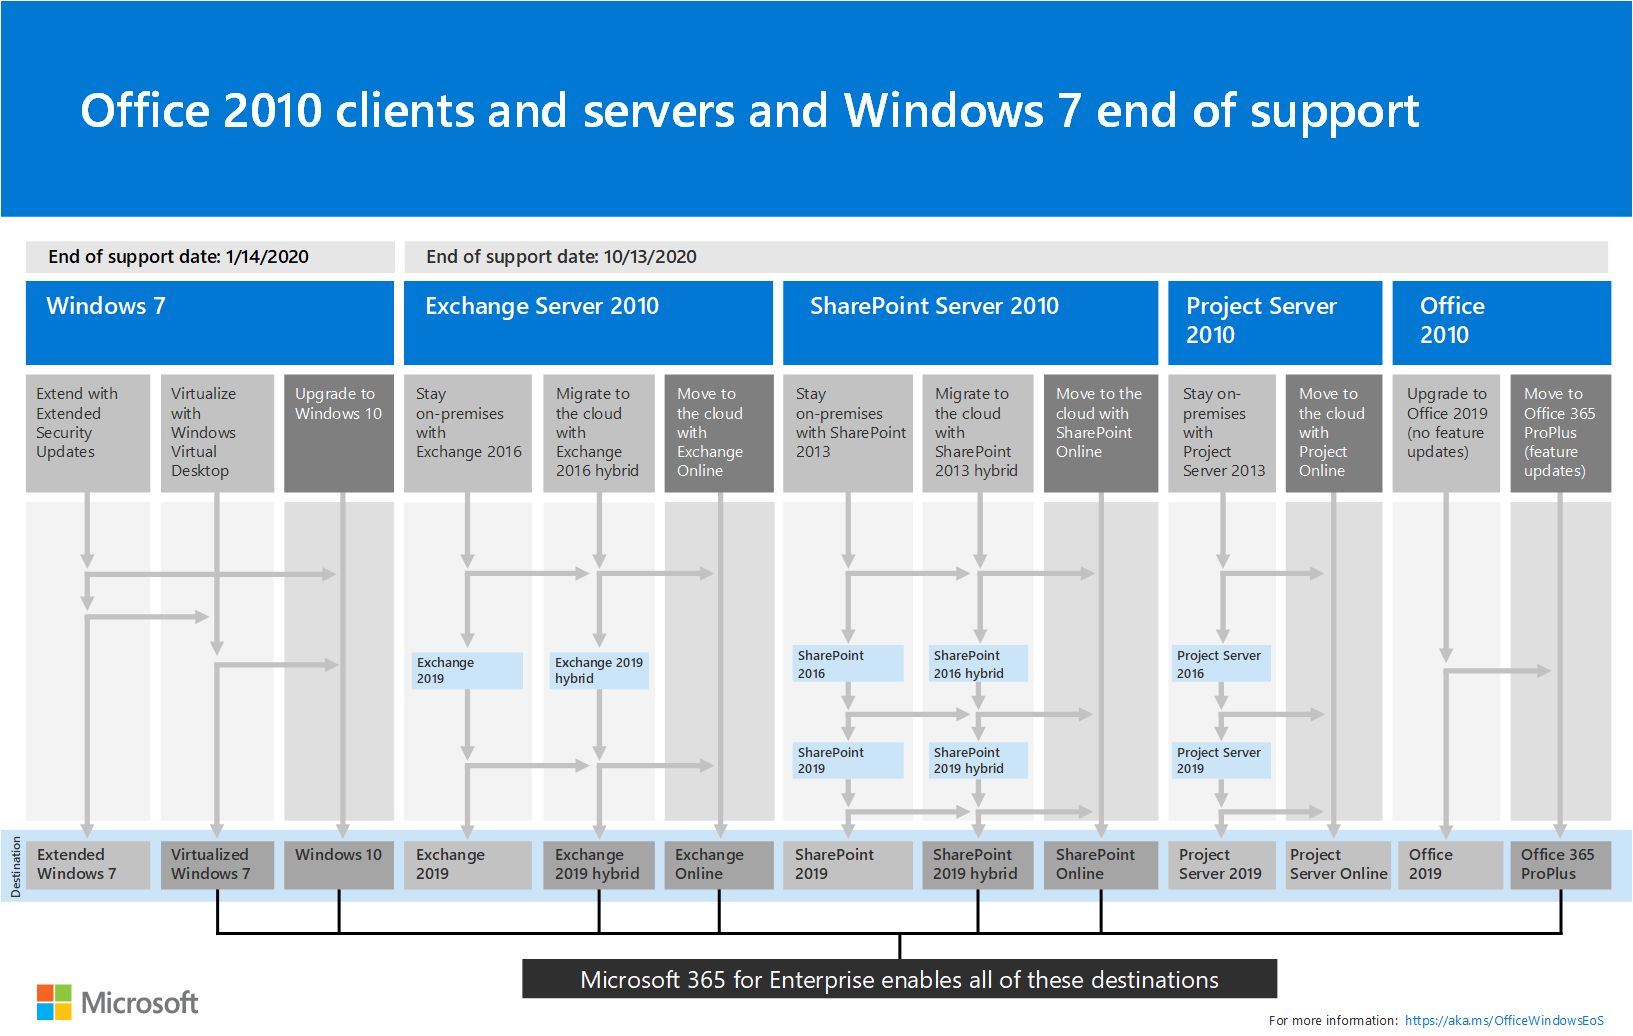
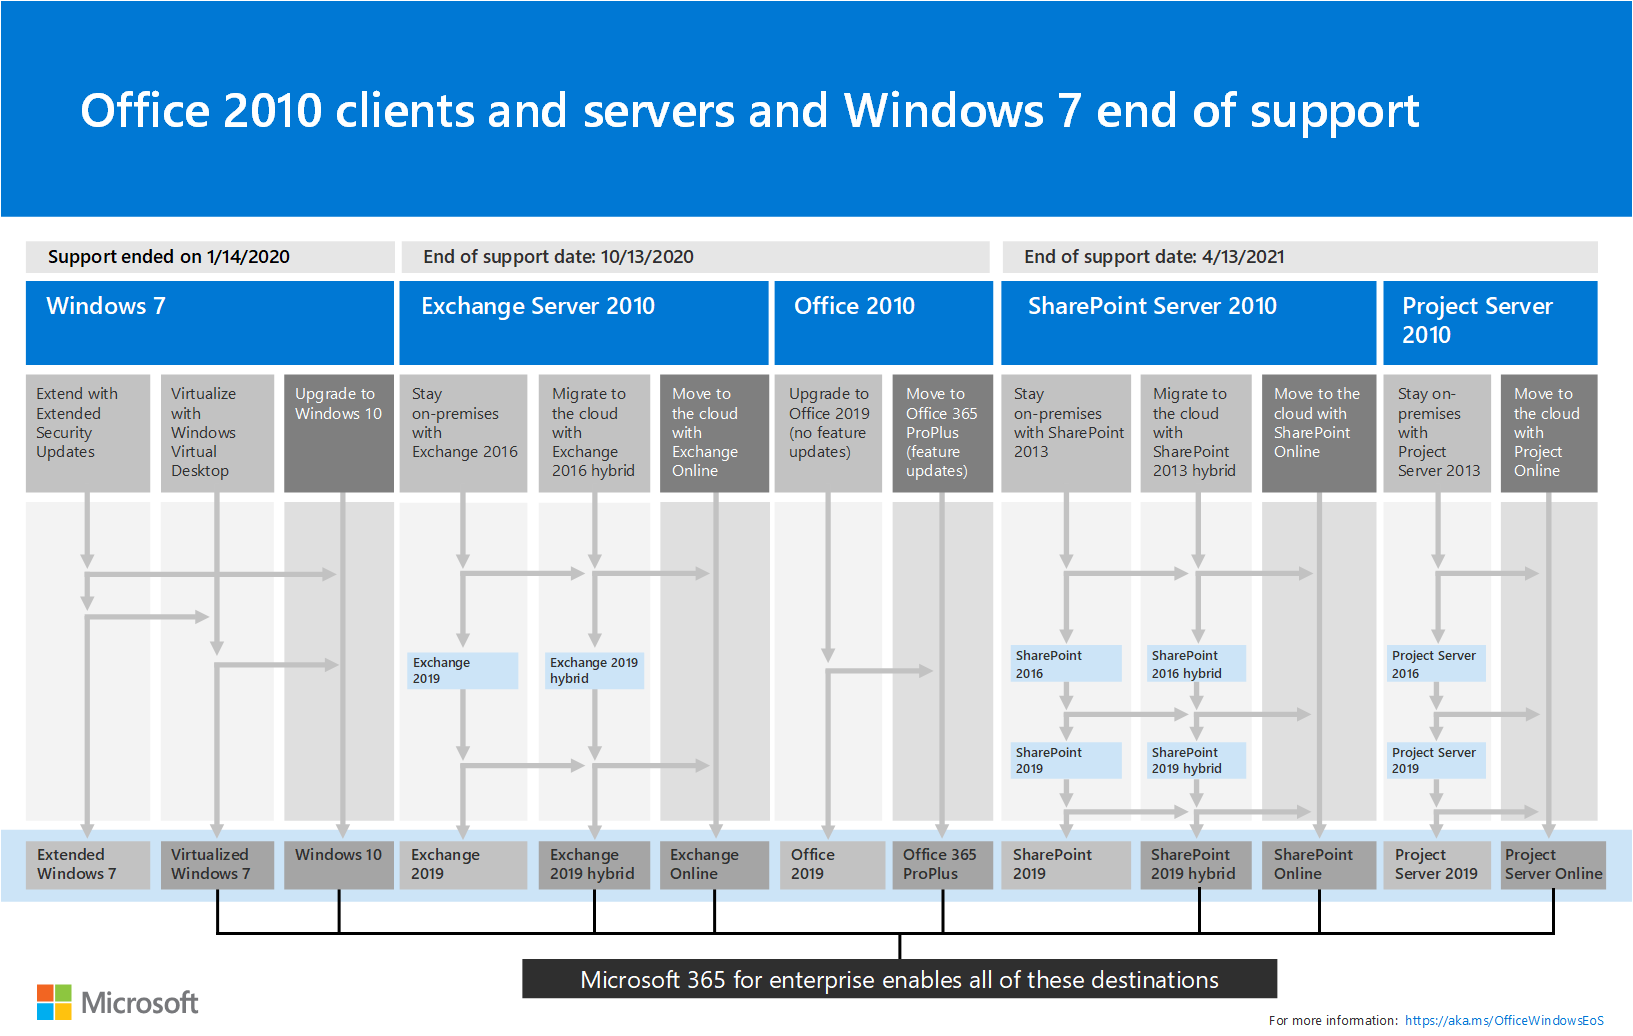
commit translated contents

diff --git a/microsoft-365/admin/security-and-compliance/set-up-multi-factor-authentication.md b/microsoft-365/admin/security-and-compliance/set-up-multi-factor-authentication.md
@@ -22,12 +22,12 @@ search.appverid:
 ms.assetid: 8f0454b2-f51a-4d9c-bcde-2c48e41621c6
 description: Lär dig hur du använder säkerhetsstandarder för att konfigurera multifaktorautentisering för Office 365-användare.
 monikerRange: o365-worldwide
-ms.openlocfilehash: 5f468f040ca88ab4ab2bc198d0d7550bf2e7f4af
-ms.sourcegitcommit: 8a88b7526e6a3a907f33a8567e0d25b74fe60d80
+ms.openlocfilehash: 7e48f72f2fd8cfc5042bd15f994cc98bfa5fca8c
+ms.sourcegitcommit: dbbdeca5a6cd048e1bde9e820a8b8a0d6022c7a2
 ms.translationtype: MT
 ms.contentlocale: sv-SE
-ms.lasthandoff: 04/09/2020
-ms.locfileid: "43204028"
+ms.lasthandoff: 04/14/2020
+ms.locfileid: "43503977"
 ---
 # <a name="set-up-multi-factor-authentication"></a>Konfigurera multifaktorautentisering
   
@@ -37,6 +37,7 @@ ms.locfileid: "43204028"
 Alla nya Office 365 för företag- och Microsoft 365 Business-prenumerationer har automatiskt säkerhetsstandarder aktiverade. Det innebär att alla användare måste konfigurera MFA och installera Microsoft Authenticator-appen på sin mobila enhet. Mer information finns i [Konfigurera tvåstegsverifiering för Office 365](https://support.office.com/article/ace1d096-61e5-449b-a875-58eb3d74de14).  
 
 Följande nio administratörsroller måste utföra ytterligare autentisering varje gång de loggar in:
+
 - Global administratör
 - SharePoint-administratör
 - Exchange-administratör
@@ -47,7 +48,7 @@ Följande nio administratörsroller måste utföra ytterligare autentisering var
 - Användaradministratör
 - Administratör av autentisering
 
-Alla andra användare kommer att ombes utföra ytterligare autentisering när det behövs. Mer information finns i [Vad är säkerhetsstandarder?](https://docs.microsoft.com/azure/active-directory/fundamentals/concept-fundamentals-security-defaults)
+Alla andra användare kommer att ombes utföra ytterligare autentisering när det behövs. Mer information finns i [Vad är standardinställningar för säkerhet?](https://docs.microsoft.com/azure/active-directory/fundamentals/concept-fundamentals-security-defaults)
 
 > [!NOTE]
 > Du måste vara en global Office 365-administratör för att kunna konfigurera eller ändra MFA. <br><br>
@@ -61,8 +62,7 @@ Om du tidigare har konfigurerat MFA med riktlinjer [måste du inaktivera och akt
 ## <a name="manage-security-defaults"></a>Hantera säkerhetsstandarder
 
 1. Logga in på [administrationscentret](https://go.microsoft.com/fwlink/p/?linkid=834822) som global administratör.
-2. Gå till [Azure Active Directory egenskaper](https://portal.azure.com/#blade/Microsoft_AAD_IAM/ActiveDirectoryMenuBlade/Properties).
-
+2. Gå till [egenskaper för Azure Active Directory](https://portal.azure.com/#blade/Microsoft_AAD_IAM/ActiveDirectoryMenuBlade/Properties).
 3. Längst ner på sidan väljer du **Hantera säkerhetsstandarder**.
 4. Välj **Ja** om du vill aktivera standardinställningar för säkerhet eller **Nej** om du vill inaktivera standardvärden för säkerhet och välj sedan **Spara**.
 
@@ -74,9 +74,9 @@ Om du tidigare har konfigurerat MFA med riktlinjer [måste du inaktivera och akt
 
 3. Om **säkerheten | Komma** igång-sidan, välj **Villkorlig åtkomst**. 
 
-4. På sidan **Villkorad åtkomst till Azure portal – riktlinjer** väljer du varje baslinje-policy som är **På** och ställ dem på **Av**.
+4. På sidan **Villkorlig åtkomst - Principer** väljer du varje originalprincip som är **På**och ställer in dem på **Av**.
 5. Gå till sidan [Azure Active Directory egenskaper](https://portal.azure.com/#blade/Microsoft_AAD_IAM/ActiveDirectoryMenuBlade/Properties).
-6. Gå till slutet av sidan och välj **Hantera säkerhetsstandarder**och i fönstret **Aktivera säkerhetsstandarder** och ställer**Aktiverar säkerhetsstandarder** till **Ja**. 
+6. Längst ned på sidan väljer du **Hantera standardvärden för säkerhet**och i fönstret Aktivera säkerhet som **standard** anger du Växla till **Ja**för **säkerhet** och väljer sedan **Spara**. 
 
 ## <a name="enable-modern-authentication-for-your-organization"></a>Aktivera modern autentisering för din organisation
 
@@ -84,12 +84,13 @@ Alla Office 2016-klientprogrammen har stöd för MFA genom användning av ADAL (
 
 1. Om du vill aktivera modern autentisering väljer du **Inställningar** \> **Inställningar** i [administrationscentrat](https://go.microsoft.com/fwlink/p/?linkid=834822) och **Modern autentisering** i listan på fliken **Tjänster**.
 
-2. Markera rutan **Aktivera modern autentisering** i panelen **Modern autentisering**. 
+2. Markera rutan **Aktivera modern autentisering (rekommenderas)** på panelen **Modern autentisering** och välj sedan **Spara ändringar**. 
 
     ![Panelen Modern autentisering med kryssrutan Aktivera markerad.](../../media/enablemodernauth.png)
     
 > [!IMPORTANT]
 > Från och med augusti 2017 är modern autentisering aktiverat som standard för alla nya Office 365-klientorganisationer som inkluderar Skype för företag – Online och Exchange Online. Om du vill kontrollera status för modern autentisering i Skype för företag – Online kan du använda Skype för företag – Online PowerShell med globala administratörsuppgifter. Kör Get-CsOAuthConfiguration när du vill kontrollera utdata för -ClientADALAuthOverride. Om -ClientADALAuthOverride är Allowed är modern autentisering aktiverat.
+
 Om du vill kontrollera MA-status för Exchange Online går du till [Aktivera modern autentisering i Exchange Online](https://docs.microsoft.com/exchange/clients-and-mobile-in-exchange-online/enable-or-disable-modern-authentication-in-exchange-online).
 
 ## <a name="related-articles"></a>Relaterade artiklar

diff --git a/microsoft-365/enterprise/microsoft-365-overview.md b/microsoft-365/enterprise/microsoft-365-overview.md
@@ -13,12 +13,12 @@ localization_priority: Normal
 ms.collection: M365-subscription-management
 ms.custom: it-pro
 description: Innehåller en introduktion till komponenter, planer och distributionssökvägar för Microsoft 365 för företag.
-ms.openlocfilehash: 043953ddfd38a9ef5119546ec5672dd46e8acb53
-ms.sourcegitcommit: 053d42480d8aa3792ecb0027ddd53d383a029474
+ms.openlocfilehash: 6b8d2aa7fd8455acde1d49a6ed7f7c93c5235652
+ms.sourcegitcommit: dbbdeca5a6cd048e1bde9e820a8b8a0d6022c7a2
 ms.translationtype: MT
 ms.contentlocale: sv-SE
-ms.lasthandoff: 04/07/2020
-ms.locfileid: "43175196"
+ms.lasthandoff: 04/14/2020
+ms.locfileid: "43504097"
 ---
 # <a name="microsoft-365-for-enterprise-overview"></a>Översikt över Microsoft 365 för företag
 
@@ -84,15 +84,14 @@ Du kan också [ladda ner denna affisch](https://github.com/MicrosoftDocs/microso
 
 ## <a name="avoid-end-of-support-for-windows-7-and-office-2010-clients-and-servers"></a>Undvik att supporten för Windows 7 och Office 2010 ska sluta
 
-Följande produkter upphörde med supporten **den 14 januari 2020:**
-
-- [Windows 7](https://aka.ms/win7upgrade)
+[Windows 7](https://aka.ms/win7upgrade) nådde slutet av **supporten den 14 januari 2020**.
 
 Följande produkter kommer att nå slutet av supporten **den 13 oktober 2020:**
 
 - [Office 2010](https://docs.microsoft.com/DeployOffice/office-2010-end-support-roadmap)
 - [Exchange Server 2010](https://docs.microsoft.com/office365/enterprise/exchange-2010-end-of-support)
-- [SharePoint Server 2010](https://docs.microsoft.com/office365/enterprise/upgrade-from-sharepoint-2010)
+
+[SharePoint Server 2010](https://docs.microsoft.com/office365/enterprise/upgrade-from-sharepoint-2010) kommer att nå slutet av supporten **den 13 april 2021**.
 
 En visuell sammanfattning av alternativen att uppgradera, migrera och flytta till molnet för dessa produkter finns på [affischen supportens upphörande](../media/migration-microsoft-365-enterprise-workload/Office2010Windows7EndOfSupport.pdf).
 
@@ -150,6 +149,6 @@ Mer distributionsinformation finns i så här:
 
 Om du gör distributionen själv startar du [microsoft 365 för företagsdistributionsresa](deploy-microsoft-365-enterprise.md).
 
-## <a name="see-also"></a>Se även
+## <a name="see-also"></a>Snabbreferens
 
 [Microsoft 365 för företagets produktsida](https://www.microsoft.com/microsoft-365/enterprise)

diff --git a/microsoft-365/security/mtp/preview.md b/microsoft-365/security/mtp/preview.md
@@ -19,12 +19,12 @@ ms.topic: conceptual
 search.appverid:
 - MOE150
 - MET150
-ms.openlocfilehash: f04d2e587a55a680a65425b34a88896466e09be3
-ms.sourcegitcommit: 9ca28ae8f7804eb488cf76ca4b09fe88787e0a49
+ms.openlocfilehash: c4facaac82ff8486c0c3a846e4f577c7888a3161
+ms.sourcegitcommit: dbbdeca5a6cd048e1bde9e820a8b8a0d6022c7a2
 ms.translationtype: MT
 ms.contentlocale: sv-SE
-ms.lasthandoff: 04/02/2020
-ms.locfileid: "43113465"
+ms.lasthandoff: 04/14/2020
+ms.locfileid: "43503989"
 ---
 # <a name="microsoft-threat-protection-preview-features"></a>Förhandsgranskningsfunktioner för Microsoft Threat Protection
 
@@ -54,8 +54,9 @@ Aktivera inställningen för förhandsgranskningsupplevelsen så att den är bla
 
 Du vet att du har aktiverat förhandsgranskningsfunktioner när du ser att kryssrutan **Aktivera förhandsgranskningsfunktioner** är markerad. 
 
-
-
 ## <a name="preview-features"></a>Förhandsgranska funktioner
-Det här avsnittet uppdateras med en lista över funktioner som förhandsgranskas när de blir tillgängliga för dig att prova. 
+Följande funktioner och förbättringar är för närvarande tillgängliga vid förhandsversionen:
 
+- **[Anpassade identifieringar](custom-detections-overview.md)** – använd avancerade jaktfrågor för att skapa regler som automatiskt söker efter intrångsaktivitet och andra objekt av intresse med jämna mellanrum. Matchar frågorna utlösa aviseringar och angivna svarsåtgärder.
+
+- **[Identitets- och apptabeller](advanced-hunting-schema-tables.md)** – få insyn i autentiseringshändelser, Active Directory-frågor och apprelaterad aktivitet med [tabellerna IdentityLogonEvents,](advanced-hunting-identitylogonevents-table.md) [IdentityQueryEvents](advanced-hunting-identityqueryevents-table.md)och [AppFileEvents](advanced-hunting-appfileevents-table.md) i det avancerade jaktschemat.
